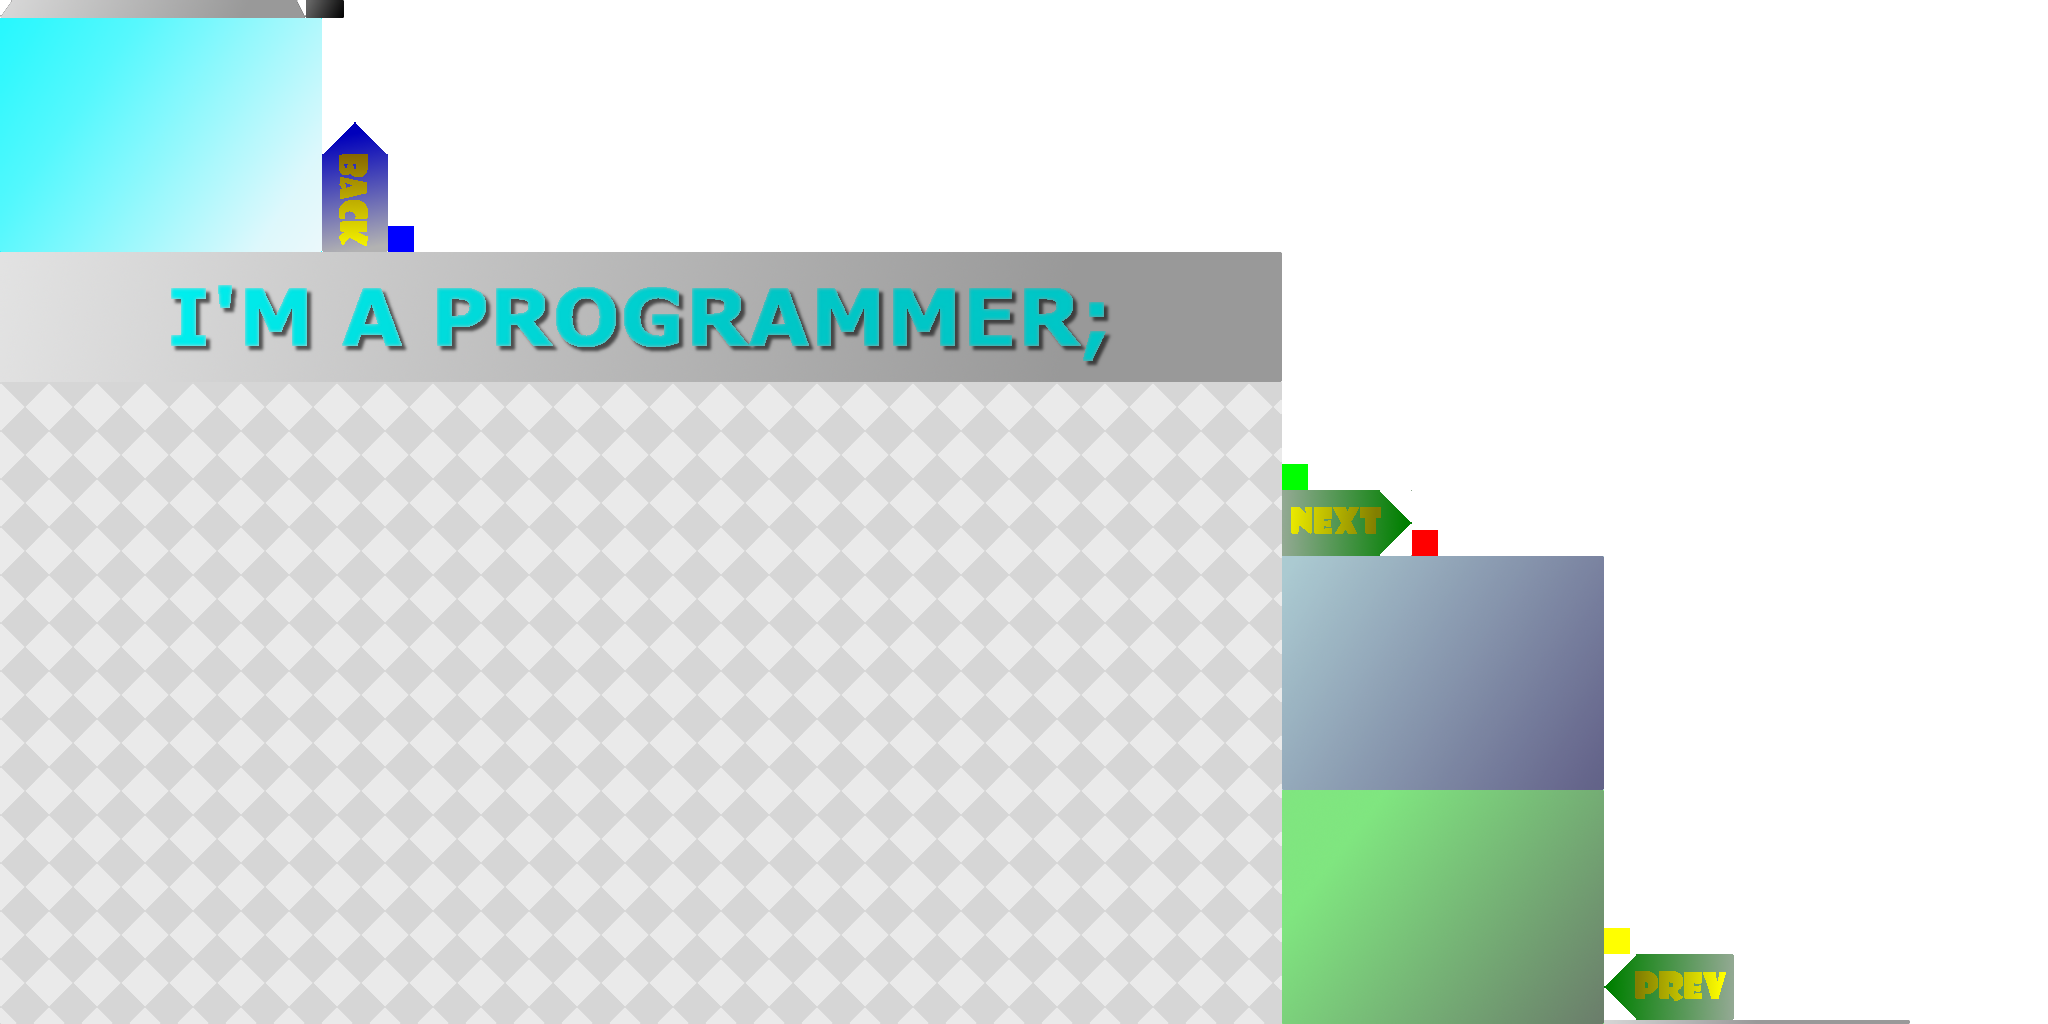
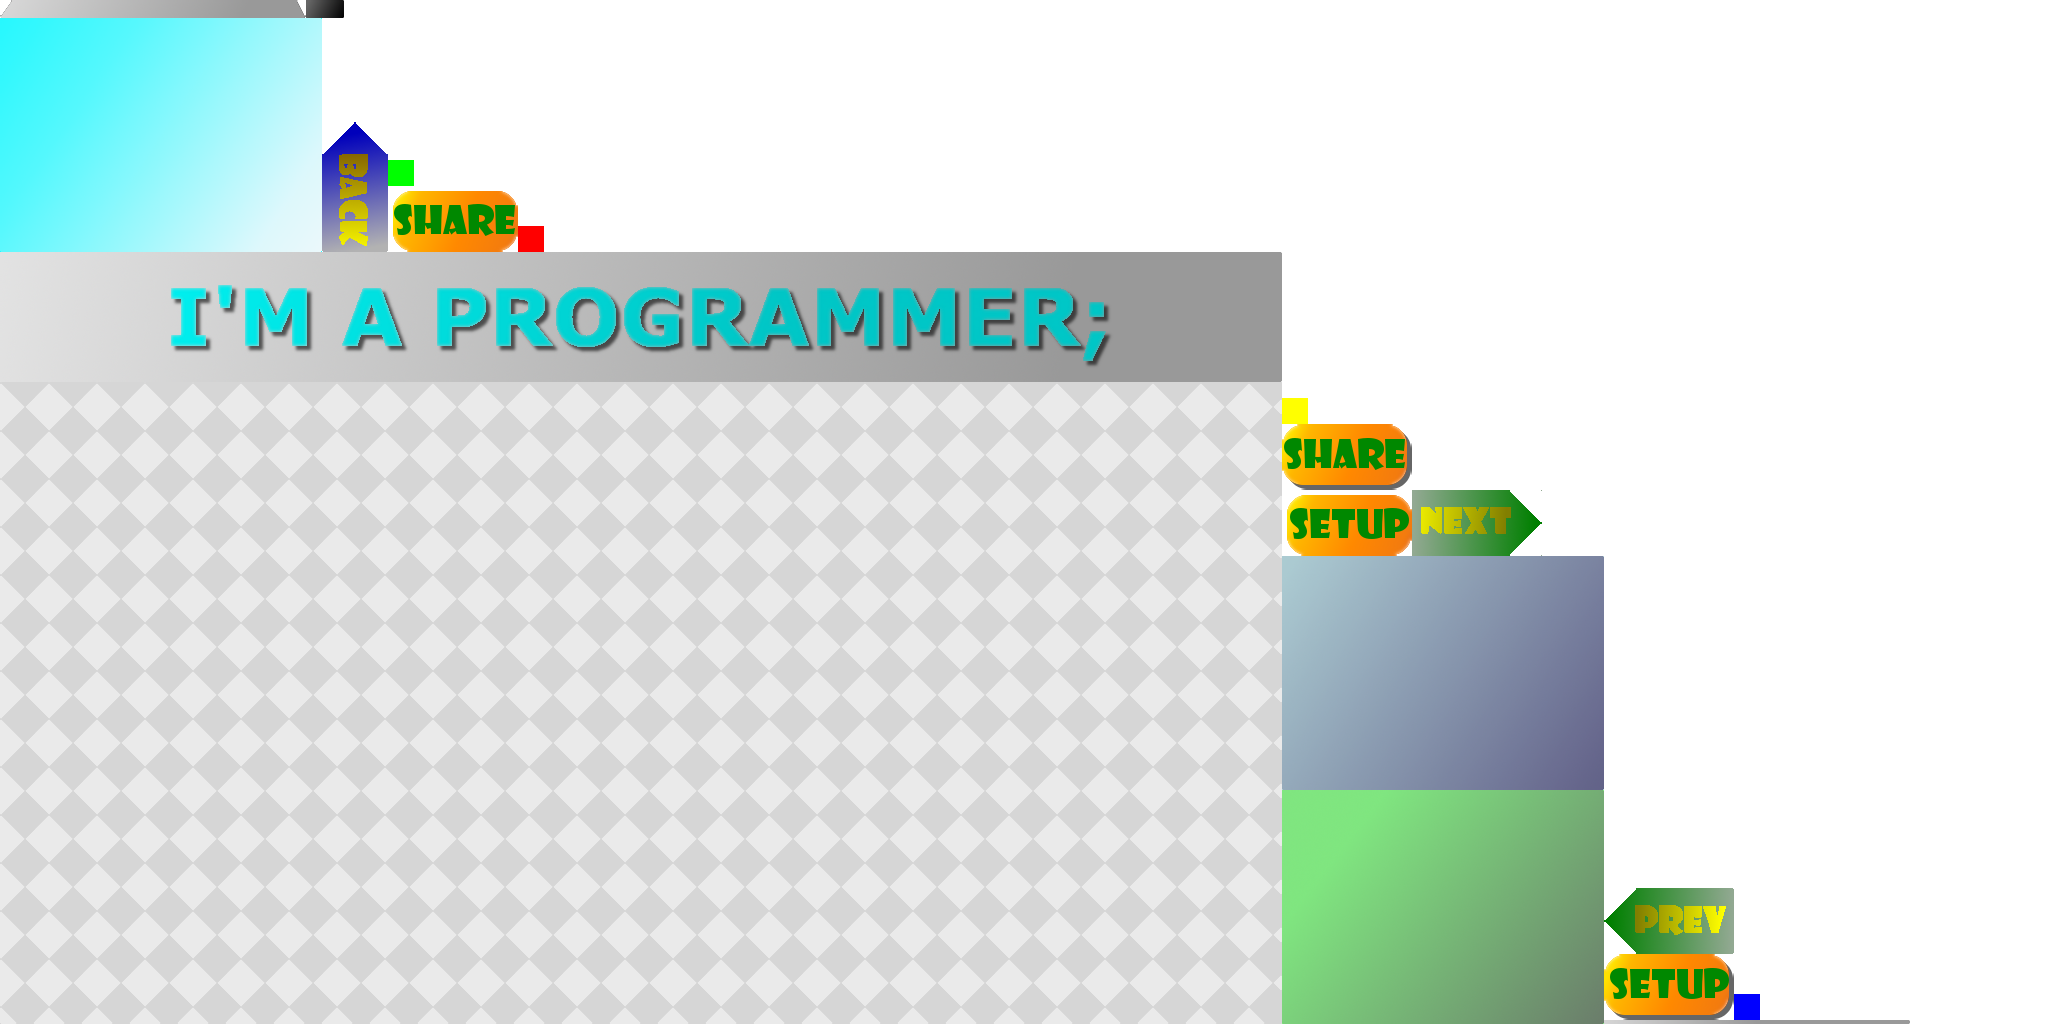
share menu screen.

Changed region(s): [[0.625, 0.375, 0.75, 0.5625], [0.7812, 0.8438, 0.875, 1.0], [0.1875, 0.1562, 0.2812, 0.25]]

diff --git a/IP-Game/src/jie/android/ip/screen/menu/MenuRenderer.java b/IP-Game/src/jie/android/ip/screen/menu/MenuRenderer.java
@@ -2,10 +2,18 @@ package jie.android.ip.screen.menu;
 
 import jie.android.ip.AudioPlayer;
 import jie.android.ip.CommonConsts.AudioConfig;
+import jie.android.ip.CommonConsts.PackConfig;
+import jie.android.ip.common.actor.ImageActor;
 import jie.android.ip.common.dialog.BaseDialog;
+import jie.android.ip.common.dialog.SettingDialog;
+import jie.android.ip.screen.menu.MenuConfig.Const;
+import jie.android.ip.screen.menu.MenuConfig.Image;
 
 import com.badlogic.gdx.Gdx;
 import com.badlogic.gdx.audio.Sound;
+import com.badlogic.gdx.graphics.g2d.TextureAtlas;
+import com.badlogic.gdx.scenes.scene2d.InputEvent;
+import com.badlogic.gdx.scenes.scene2d.utils.ClickListener;
 
 public class MenuRenderer {
 	
@@ -18,13 +26,15 @@ public class MenuRenderer {
 	}
 	
 	private final MenuScreen screen;
+	final TextureAtlas textureAtlas;
 	private final AudioPlayer audioPlayer;
 //	private final Sound soundClick;
+	
+	private CmdPanelGroup groupCmd;
 	
 	private MenuScreenListener.RendererEventListener rendererListener;
 	
 	private PackGroup groupPack;
-	
 	
 	private final MenuScreenListener.ManagerEventListener managerListener = new MenuScreenListener.ManagerEventListener() {
 		
@@ -86,17 +96,49 @@ public class MenuRenderer {
 	
 	public MenuRenderer(final MenuScreen screen) {
 		this.screen = screen;
+		this.textureAtlas = this.screen.getGame().getResources().getTextureAtlas(PackConfig.SCREEN_MENU);
+		
 		this.audioPlayer = this.screen.getGame().getAudioPlayer();
 		
-		initBackgroup();
-		
+		initBackgroup();		
 		initGroups();
+		initTitle();
+//		initCmdPanel();
 	}
 
-	private void initBackgroup() {
+	private void initTitle() {
+		final ImageActor title = new ImageActor(textureAtlas.findRegion(Image.TITLE));
+		title.setBounds(Const.TITLE_X, Const.TITLE_Y, Const.TITLE_WIDTH, Const.TITLE_HEIGHT);
+		screen.addActor(title);
+		title.addListener(new ClickListener() {
+
+			@Override
+			public void clicked(InputEvent event, float x, float y) {
+				onTitleClicked();
+			}
+		});	
+	}
+
+	private void initBackgroup() {		
+		final ImageActor background = new ImageActor(textureAtlas.findRegion(Image.BACKGROUND));
+		background.setBounds(Const.BG_X, Const.BG_Y, Const.BG_WIDTH, Const.BG_HEIGHT);
+		screen.addActor(background);
+	}
+
+	protected void onTitleClicked() {
+		showCmdPanel();
 		
+		
+//		new SettingDialog(this.screen).show();
 	}
 
+	private void showCmdPanel() {
+		if (groupCmd == null) {
+			groupCmd = new CmdPanelGroup(this.screen);
+		}
+		groupCmd.show();		
+	}
+	
 	private void initGroups() {
 		groupPack = new PackGroup(screen, packGroupListener);
 	}

diff --git a/IP-Game/src/jie/android/ip/screen/menu/PackGroup.java b/IP-Game/src/jie/android/ip/screen/menu/PackGroup.java
@@ -227,8 +227,8 @@ public class PackGroup extends ScreenGroup {
 
 	private final ActorCache cacheActor;
 
-	private ImageActor title;
-	private ImageActor background;
+//	private ImageActor title;
+//	private ImageActor background;
 	private ButtonActor btnBack, btnNext, btnPrev;
 
 	public PackGroup(final BaseScreen screen, final PackGroupEventListener listener) {
@@ -251,23 +251,23 @@ public class PackGroup extends ScreenGroup {
 
 	@Override
 	protected void initStage() {
-		background = new ImageActor(textureAtlas.findRegion(Image.BACKGROUND));
-		background.setBounds(Const.BG_X, Const.BG_Y, Const.BG_WIDTH, Const.BG_HEIGHT);
-		this.addActor(background);
-		background.setZIndex(0);
-
-		title = new ImageActor(textureAtlas.findRegion(Image.TITLE));
-		title.setBounds(Const.TITLE_X, Const.TITLE_Y, Const.TITLE_WIDTH, Const.TITLE_HEIGHT);
-		this.addActor(title);
-		title.setZIndex(0x0f);
-		title.addListener(new ClickListener() {
-
-			@Override
-			public void clicked(InputEvent event, float x, float y) {
-				onTitleClicked();
-			}
-
-		});
+//		background = new ImageActor(textureAtlas.findRegion(Image.BACKGROUND));
+//		background.setBounds(Const.BG_X, Const.BG_Y, Const.BG_WIDTH, Const.BG_HEIGHT);
+//		this.addActor(background);
+//		background.setZIndex(0);
+//
+//		title = new ImageActor(textureAtlas.findRegion(Image.TITLE));
+//		title.setBounds(Const.TITLE_X, Const.TITLE_Y, Const.TITLE_WIDTH, Const.TITLE_HEIGHT);
+//		this.addActor(title);
+//		title.setZIndex(0x0f);
+//		title.addListener(new ClickListener() {
+//
+//			@Override
+//			public void clicked(InputEvent event, float x, float y) {
+//				onTitleClicked();
+//			}
+//
+//		});
 
 		btnBack = new ButtonActor(new Button.ButtonStyle(skin.getDrawable(Image.Button.BACK_UP),
 				skin.getDrawable(Image.Button.BACK_DOWN), null));
@@ -309,9 +309,9 @@ public class PackGroup extends ScreenGroup {
 		this.addActor(btnPrev);
 	}
 
-	protected void onTitleClicked() {
-		new SettingDialog(this.screen).show();
-	}
+//	protected void onTitleClicked() {
+//		new SettingDialog(this.screen).show();
+//	}
 
 	public void loadPacks(final Pack[] packs) {
 

diff --git a/IP-Game/src/jie/android/ip/screen/menu/CmdPanelGroup.java b/IP-Game/src/jie/android/ip/screen/menu/CmdPanelGroup.java
@@ -13,7 +13,10 @@ import jie.android.ip.CommonConsts.PackConfig;
 import jie.android.ip.common.actor.BaseGroupAccessor;
 import jie.android.ip.common.actor.ButtonActor;
 import jie.android.ip.common.actor.ScreenGroup;
+import jie.android.ip.common.dialog.SettingDialog;
 import jie.android.ip.screen.BaseScreen;
+import jie.android.ip.screen.menu.MenuConfig.Const;
+import jie.android.ip.screen.menu.MenuConfig.Image;
 
 
 public class CmdPanelGroup extends ScreenGroup {
@@ -22,12 +25,16 @@ public class CmdPanelGroup extends ScreenGroup {
 	private final Skin skin;
 	private final TweenManager tweenManager;
 	
+	private boolean show = false;
+	
 	public CmdPanelGroup(final BaseScreen screen) {
 		super(screen);
 		
 		this.textureAtlas = super.resources.getTextureAtlas(PackConfig.SCREEN_PLAY);
 		this.skin = new Skin(this.textureAtlas);
-		this.tweenManager = this.screen.getTweenManager();		
+		this.tweenManager = this.screen.getTweenManager();	
+		
+		initStage();
 	}
 
 	@Override
@@ -58,10 +65,16 @@ public class CmdPanelGroup extends ScreenGroup {
 		});		
 		this.addActor(setting);
 		
+//		final ButtonActor close = new ButtonActor(new Button.ButtonStyle(skin.getDrawable(Image.Cmd.CLOSE_UP), skin.getDrawable(Image.Cmd.CLOSE_DOWN), null));
+//		close.setPosition(Const.Cmd.X_CLOSE, Const.Cmd.Y_CLOSE);
+//		this.addActor(close);
+		
 		this.screen.addActor(this);
 	}
 	
-	public void show(boolean show) {
+	public void show() {
+		show = !show;
+
 		if (show) {
 			Tween.to(this, BaseGroupAccessor.POSITION_X, 0.2f).target(Const.Cmd.TARGET_X).start(tweenManager);
 		} else {
@@ -70,8 +83,16 @@ public class CmdPanelGroup extends ScreenGroup {
 	}
 
 	protected void onShareClicked() {
+		show();
+		this.screen.getGame().getSetup().shareScreen();
 	}
 
 	protected void onSettingClicked() {
+		show();
+		new SettingDialog(this.screen).show();
 	}
+	
+//	protected void onCloseClicked() {
+//		
+//	}
 }

diff --git a/IP-Game/src/jie/android/ip/screen/menu/MenuConfig.java b/IP-Game/src/jie/android/ip/screen/menu/MenuConfig.java
@@ -32,6 +32,17 @@ public interface MenuConfig {
 			public static final String BOX_1 = "box_b";
 			public static final String BOX_2 = "box_c";
 			public static final String BOX_3 = "box_d";
+		}
+		
+		public interface Cmd {
+			public static final String SHARE_DOWN = "cmd_share_down";
+			public static final String SHARE_UP = "cmd_share_up";
+
+			public static final String SETTING_UP = "cmd_setup_up";
+			public static final String SETTING_DOWN = "cmd_setup_down";
+			
+			public static final String CLOSE_UP = "cmd_close_up";
+			public static final String CLOSE_DOWN = "cmd_close_down";			
 		}		
 	}
 	
@@ -110,9 +121,34 @@ public interface MenuConfig {
 			
 			public static final int TRAY_COL_BASE = 42;
 			public static final int TRAY_ROW_BASE = 16;
-			public static final int TRAY_SPACE = -8;		
-		
+			public static final int TRAY_SPACE = -8;
 		}
+		
+		public interface Cmd {
+			
+			public static final int WIDTH_BUTTON = 128;
+			public static final int HEIGHT_BUTTON = 64;
+			
+			public static final int BASE_X = ScreenConfig.WIDTH;
+			public static final int BASE_Y = 0;
+			public static final int TARGET_X = ScreenConfig.WIDTH - WIDTH_BUTTON; 
+			
+			public static final int WIDTH = 128;
+			public static final int HEIGHT = ScreenConfig.HEIGHT - 128;//72;
+			
+			public static final int BASE_BUTTON_X = 0;
+			public static final int BASE_BUTTON_Y = 0;
+			public static final int SPACE_BUTTON_Y = 48;			
+			
+			public static final int X_SETTING = BASE_BUTTON_X;//0;
+			public static final int Y_SETTING = HEIGHT - HEIGHT_BUTTON - (SPACE_BUTTON_Y + HEIGHT_BUTTON) * 1;
+			
+			public static final int X_SHARE = BASE_BUTTON_X;//0;
+			public static final int Y_SHARE = HEIGHT - HEIGHT_BUTTON;//80;
+			
+			public static final float X_CLOSE = BASE_BUTTON_X;//0;
+			public static final float Y_CLOSE = HEIGHT - HEIGHT_BUTTON - (SPACE_BUTTON_Y + HEIGHT_BUTTON) * 2;			
+		}		
 
 	}
 	
